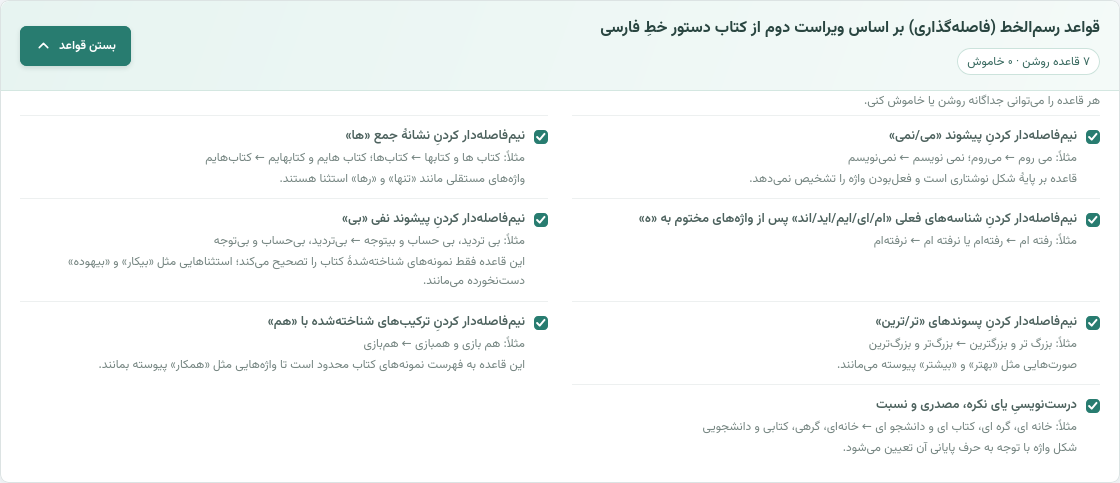
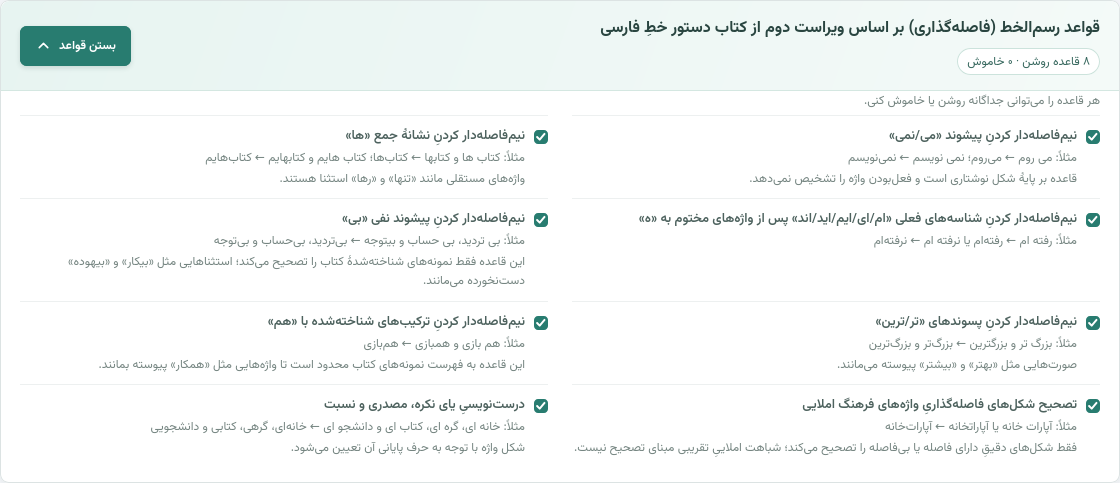
Update Vajehban page for eight rules

diff --git a/vajehban.html b/vajehban.html
@@ -4,7 +4,7 @@
 <meta charset="utf-8">
 <meta name="viewport" content="width=device-width,initial-scale=1">
 <meta name="theme-color" content="#f4f7f4">
-<meta name="description" content="واژهبان تصحیح خودکار فارسی را به فایرفاکس میآورد: بانک واژهٔ قابلویرایش، هفت قاعدهٔ رسمالخط و نگهداری محلی اطلاعات.">
+<meta name="description" content="واژهبان تصحیح خودکار فارسی را به فایرفاکس میآورد: بانک واژهٔ قابلویرایش، هشت قاعدهٔ رسمالخط و نگهداری محلی اطلاعات.">
 <link rel="canonical" href="https://afshin-ir.github.io/emla/vajehban.html">
 <link rel="icon" type="image/svg+xml" href="./favicon.svg">
 <link rel="icon" type="image/x-icon" href="./favicon.ico">
@@ -40,14 +40,13 @@
 <div class="article-actions"><a class="button" href="https://github.com/afshin-ir/autocorrect/releases" target="_blank" rel="noopener"><svg viewBox="0 0 24 24" fill="none" stroke="currentColor" stroke-width="2" stroke-linecap="round" stroke-linejoin="round" aria-hidden="true"><path d="M12 3v12m0 0 5-5m-5 5-5-5M5 21h14"/></svg>دریافت افزونه از گیتهاب</a><a class="button" href="https://addons.mozilla.org/firefox/search/?q=%D9%88%D8%A7%DA%98%D9%87%E2%80%8C%D8%A8%D8%A7%D9%86" target="_blank" rel="noopener"><svg viewBox="0 0 24 24" fill="none" stroke="currentColor" stroke-width="1.8" stroke-linecap="round" stroke-linejoin="round" aria-hidden="true"><path d="M19 8h-3V5a2 2 0 1 0-4 0v3H9a2 2 0 0 0-2 2v2H4a2 2 0 1 0 0 4h3v3a2 2 0 0 0 2 2h3v-3a2 2 0 1 1 4 0v3h3a2 2 0 0 0 2-2v-3h-3a2 2 0 1 1 0-4h3v-2a2 2 0 0 0-2-2z"/></svg>جستوجو در افزونههای فایرفاکس</a></div></header>
 <article class="prose">
 <p>برای نمونه، در صفحهٔ تنظیمات واژهبان، «انظباط» را بهعنوان صورت نادرست و «انضباط» را بهعنوان صورت درست به بانک اضافه کن. بعد، هنگام نوشتن در فایرفاکس، «انظباط» را تایپ کن و کلید فاصله (Space)، نشانهای مثل نقطه یا ویرگول، یا کلید Enter را فشار بده؛ واژهبان همان واژه را در همان فیلد به «انضباط» تبدیل میکند. برای این اصلاح لازم نیست متن را به ابزار دیگری منتقل کنی.</p>
-<figure><a href="./images/vajehban-settings.png" target="_blank" rel="noopener" aria-label="نمایش تصویر کامل تنظیمات واژهبان"><img src="./images/vajehban-settings.png" width="1600" height="1114" alt="نمای تنظیمات فارسی و راستبهچپ واژهبان، افزودن واژه و بانک واژهها" fetchpriority="high"></a><figcaption>تنظیمات، افزودن واژه و بانک شخصی در یک صفحهٔ فارسی و راستبهچپ.</figcaption></figure>
+<figure><a href="./images/vajehban-settings.png" target="_blank" rel="noopener" aria-label="نمایش تصویر کامل تنظیمات واژهبان"><img src="./images/vajehban-settings.png" width="1600" height="1116" alt="نمای تنظیمات فارسی و راستبهچپ واژهبان، افزودن واژه و بانک واژهها" fetchpriority="high"></a><figcaption>تنظیمات، افزودن واژه و بانک شخصی در یک صفحهٔ فارسی و راستبهچپ.</figcaption></figure>
 <h2>بانک واژهها، به انتخاب خودت</h2>
-<p>در بانک آغازین واژهبان، <strong>۱۱۷۷ صورت نادرست یا نامرجّح</strong> ثبت شده است؛ صورت درست یا مرجّح هرکدام نیز کنار آن آمده است. بخشی از آن، صورتهای املایی و نامهای خاصی را در بر میگیرد که در ویراست دوم کتاب <em>دستور خطِ فارسی</em> برایشان صورت مرجّح مشخص شده است. مواردی که کتاب چند صورت را میپذیرد یا انتخاب شکل درست به معنا و بافت بستگی دارد، بهعنوان تصحیح قطعی در بانک قرار نگرفتهاند.</p>
-<figure><a href="./images/vajehban-word-bank.png" target="_blank" rel="noopener" aria-label="نمایش تصویر کامل بانک واژههای واژهبان"><img src="./images/vajehban-word-bank.png" width="1120" height="694" loading="lazy" decoding="async" alt="جدول بانک واژهبان با ۱۱۷۷ صورت نادرست یا نامرجّح و صورتهای جایگزین درست یا مرجّح آنها"></a><figcaption>در هر ردیف، صورت نادرست یا نامرجّح در برابر صورت جایگزین آمده است.</figcaption></figure>
+<p>در بانک آغازین واژهبان، <strong>۱۱۷۶ صورت نادرست یا نامرجّح</strong> ثبت شده است؛ صورت درست یا مرجّح هرکدام نیز کنار آن آمده است. بخشی از آن، صورتهای املایی و نامهای خاصی را در بر میگیرد که در ویراست دوم کتاب <em>دستور خطِ فارسی</em> برایشان صورت مرجّح مشخص شده است. مواردی که کتاب چند صورت را میپذیرد یا انتخاب شکل درست به معنا و بافت بستگی دارد، بهعنوان تصحیح قطعی در بانک قرار نگرفتهاند.</p>
+<figure><a href="./images/vajehban-word-bank.png" target="_blank" rel="noopener" aria-label="نمایش تصویر کامل بانک واژههای واژهبان"><img src="./images/vajehban-word-bank.png" width="1120" height="694" loading="lazy" decoding="async" alt="جدول بانک واژهبان با ۱۱۷۶ صورت نادرست یا نامرجّح و صورتهای جایگزین درست یا مرجّح آنها"></a><figcaption>در هر ردیف، صورت نادرست یا نامرجّح در برابر صورت جایگزین آمده است.</figcaption></figure>
 <p>بانک آغازین فقط نقطهٔ شروع است. میتوانی واژههای تازه اضافه کنی، موارد قبلی را ویرایش یا حذف کنی و در بانک جستوجو انجام بدهی. اگر خواستی واژهبان را به وضعیت اولیه برگردانی، گزینهٔ بازگردانی بانک آغازین هم در دسترس است.</p>
-<figure><a href="./images/vajehban-word-search.png" target="_blank" rel="noopener" aria-label="نمایش تصویر جستوجو در بانک واژهها"><img src="./images/vajehban-word-search.png" width="1120" height="512" loading="lazy" decoding="async" alt="نمونهٔ جستوجو در بانک واژهبان و نمایش صورتهای مرجّح"></a><figcaption>نمونهٔ جستوجو در بانک واژهها؛ شمار واژههای تصویر مربوط به نسخهٔ پیشین است.</figcaption></figure>
 <h2>قواعد رسمالخط</h2>
-<p>همهٔ صورتهای زبانی را نمیتوان با ثبت واژههای مشخص در بانک پوشش داد. برای همین واژهبان هفت قاعدهٔ جداگانه برای رسمالخط و فاصلهگذاری دارد. این قواعد بهطور پیشفرض روشناند و میتوانی هرکدام را مستقل از بقیه خاموش یا روشن کنی:</p>
+<p>همهٔ صورتهای زبانی را نمیتوان با ثبت واژههای مشخص در بانک پوشش داد. برای همین واژهبان هشت قاعدهٔ جداگانه برای رسمالخط و فاصلهگذاری دارد. این قواعد بهطور پیشفرض روشناند و میتوانی هرکدام را مستقل از بقیه خاموش یا روشن کنی:</p>
 <ul>
 <li><strong>پیشوند «می/نمی»:</strong> «می روم» به «میروم» و «نمی نویسم» به «نمینویسم» تبدیل میشود.</li>
 <li><strong>نشانهٔ جمع «ها» و صورتهای ضمیری آن:</strong> برای نمونه «کتاب ها»، «کتابها»، «کتاب هایم» و «کتابهایم» به صورتهای نیمفاصلهدار تصحیح میشوند.</li>
@@ -56,9 +55,10 @@
 <li><strong>پسوندهای «تر/ترین»:</strong> «بزرگ تر» و «بزرگترین» به «بزرگتر» و «بزرگترین» تبدیل میشوند؛ صورتهایی مثل «بهتر» و «بیشتر» پیوسته میمانند.</li>
 <li><strong>ترکیبهای شناختهشده با «هم»:</strong> «هم بازی» و «همبازی» به «همبازی» تبدیل میشوند.</li>
 <li><strong>یای نکره، مصدری و نسبت:</strong> شکل واژه با توجه به حرف پایانی آن تعیین میشود؛ برای نمونه «خانه ای» به «خانهای» و «دانشجو ای» به «دانشجویی» تبدیل میشود.</li>
+<li><strong>تصحیح شکلهای فاصلهگذاری واژههای فرهنگ املایی:</strong> شکلهای فاصلهدار یا پیوستهٔ واژههایی که در فهرست صورتهای مرجّحِ <em>فرهنگ املایی خط فارسی</em> نیمفاصله دارند، یکسانسازی میشوند؛ برای نمونه، «آپارات خانه» و «آپاراتخانه» به «آپاراتخانه» تبدیل میشوند. تطبیق دقیق است و افزونه واژهای را بر پایهٔ شباهت تقریبی حدس نمیزند.</li>
 </ul>
 <p class="note">برای جلوگیری از تغییرهای نابجا، بعضی قواعد به نمونههای مشخص محدودند. مثلاً قاعدهٔ «هم» فقط ترکیبهای شناختهشده را در بر میگیرد و واژههایی مثل «همکار» را پیوسته نگه میدارد. در برخی عبارتها نیز تشخیص معنای مورد نظر فقط از روی شکل واژه ممکن نیست؛ به همین دلیل روشن و خاموشکردن مستقل هر قاعده به خودت سپرده شده است.</p>
-<figure><a href="./images/vajehban-rules.png" target="_blank" rel="noopener" aria-label="نمایش تصویر کامل قواعد رسمالخط"><img src="./images/vajehban-rules.png" width="1120" height="483" loading="lazy" decoding="async" alt="هفت قاعدهٔ رسمالخط واژهبان با تنظیم روشن و خاموش جداگانه"></a><figcaption>هر قاعده را جداگانه روشن یا خاموش کن.</figcaption></figure>
+<figure><a href="./images/vajehban-rules.png" target="_blank" rel="noopener" aria-label="نمایش تصویر کامل قواعد رسمالخط"><img src="./images/vajehban-rules.png" width="1120" height="483" loading="lazy" decoding="async" alt="هشت قاعدهٔ رسمالخط واژهبان با تنظیم روشن و خاموش جداگانه"></a><figcaption>هر قاعده را جداگانه روشن یا خاموش کن.</figcaption></figure>
 <h2>پشتیبانگیری و نگهداری اطلاعات</h2>
 <p>واژهها و تنظیمات روی دستگاه خودت، در فضای ذخیرهسازی محلی فایرفاکس نگهداری میشوند. متنهایی که مینویسی برای تصحیح به سروری فرستاده نمیشوند. میتوانی بانک واژهها را به شکل JSON پشتیبان بگیری و بعداً دوباره وارد کنی یا آن را با واژههای خودت گسترش بدهی.</p>
 <p>رابط تنظیمات فارسی و راستبهچپ است. کارت قواعد رسمالخط هم جمعشونده است: تعداد قواعد روشن و خاموش را در خلاصهاش میبینی و وضعیت باز یا بستهبودنش برای دفعهٔ بعد به خاطر سپرده میشود.</p>
